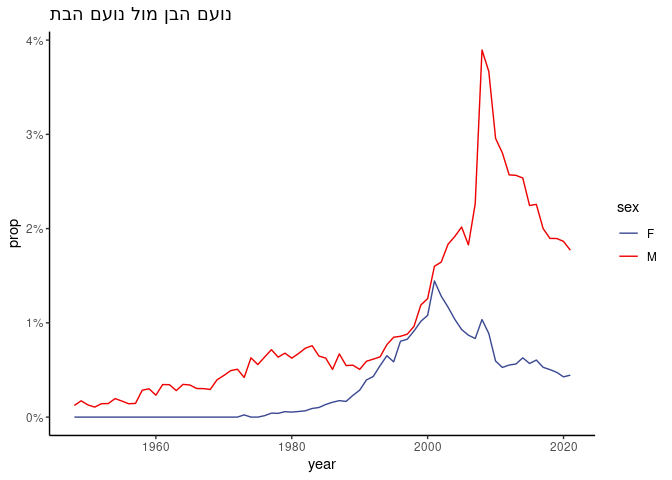
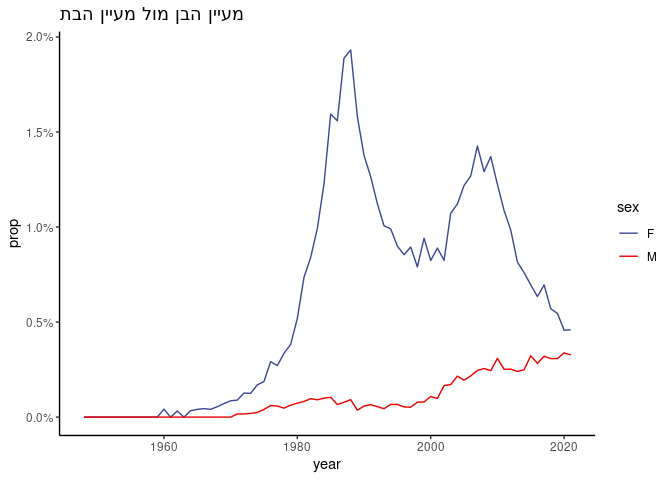
updated README

diff --git a/README.md b/README.md
@@ -82,14 +82,22 @@ Plot trajectory of names:
 ``` r
 library(ggplot2)
 library(dplyr)
+#> 
+#> Attaching package: 'dplyr'
+#> The following objects are masked from 'package:stats':
+#> 
+#>     filter, lag
+#> The following objects are masked from 'package:base':
+#> 
+#>     intersect, setdiff, setequal, union
 babynamesIL %>%
   tidyr::complete(sector, year, sex, name, fill = list(n = 0, prop = 0)) %>%
-  filter(name == "נועם", sector == "Jewish") %>%
+  filter(name == "מעיין", sector == "Jewish") %>%
   ggplot(aes(x = year, y = prop, color = sex)) +
     geom_line() +
     ggsci::scale_color_aaas() +
     scale_y_continuous(labels = scales::percent) +
-    ggtitle("נועם הבן מול נועם הבת") + 
+    ggtitle("מעיין הבן מול מעיין הבת") + 
     theme_classic()
 ```
 
@@ -99,3 +107,8 @@ babynamesIL %>%
 
 Data was downloaded from:
 [here](https://www.cbs.gov.il/he/publications/LochutTlushim/2020/%D7%A9%D7%9E%D7%95%D7%AA-%D7%A4%D7%A8%D7%98%D7%99%D7%99%D7%9D.xlsx)
+
+## Web App
+
+A web app using the data is available
+[here](http://babynames.lifshitz.xyz)
